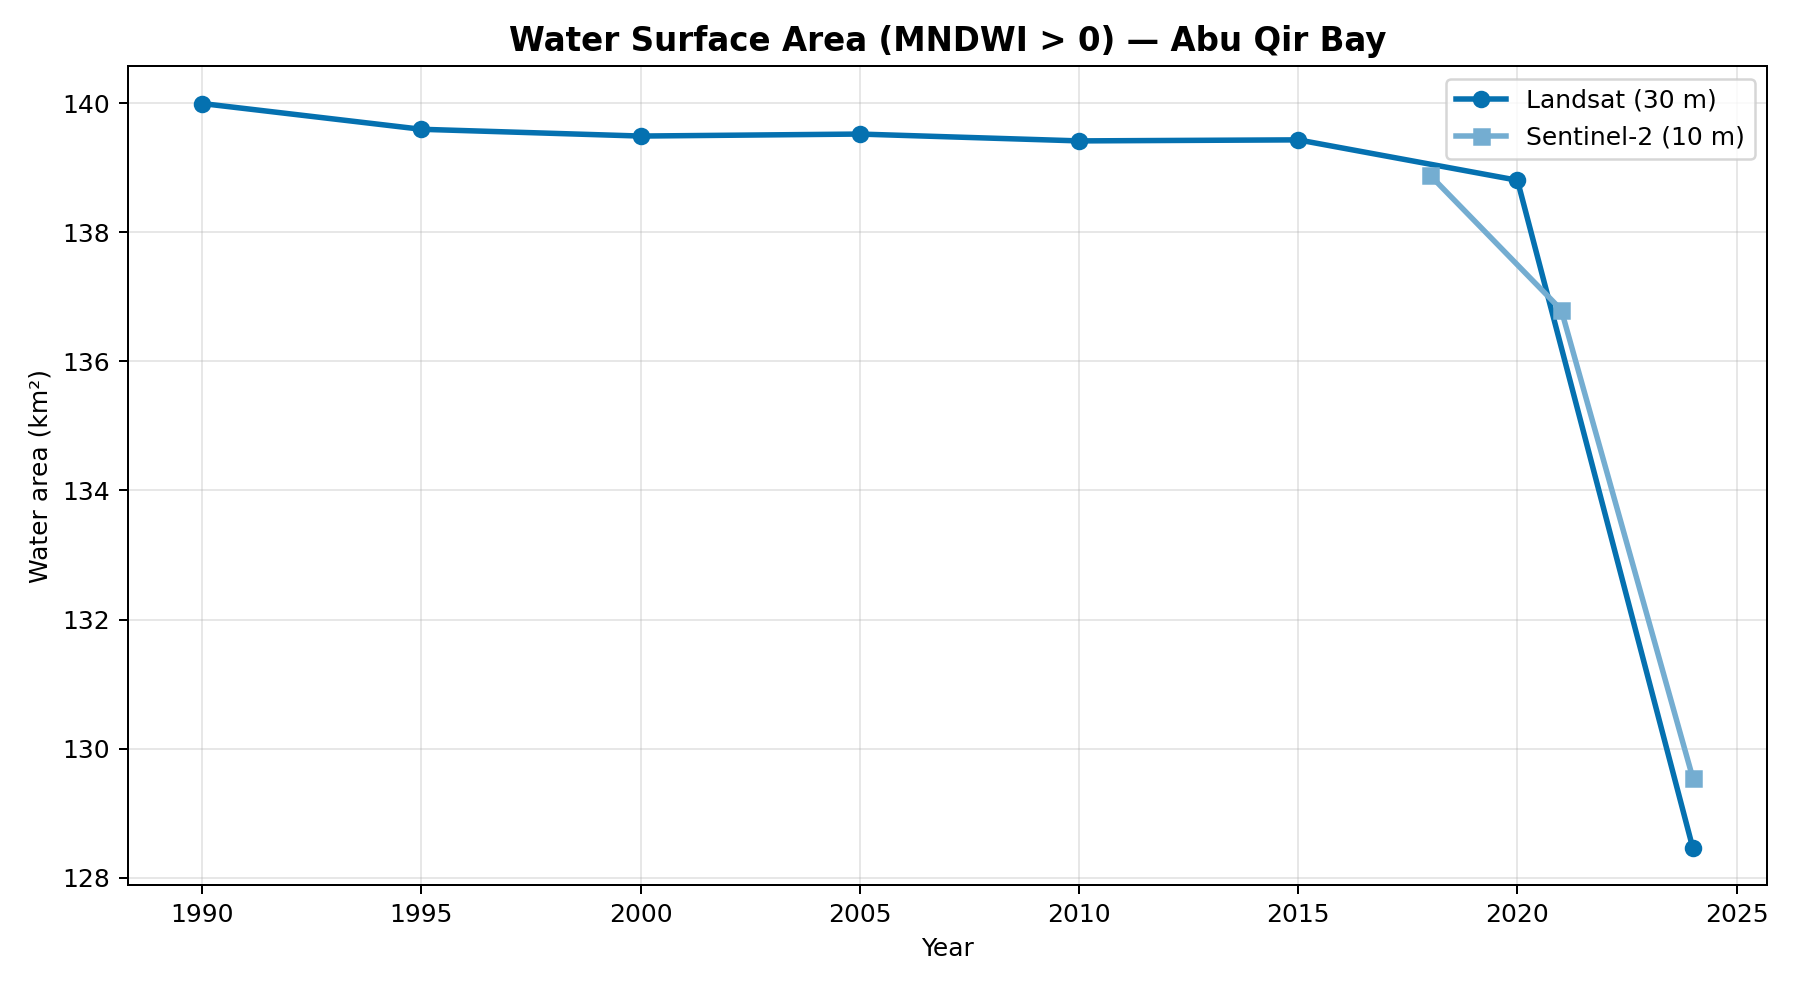
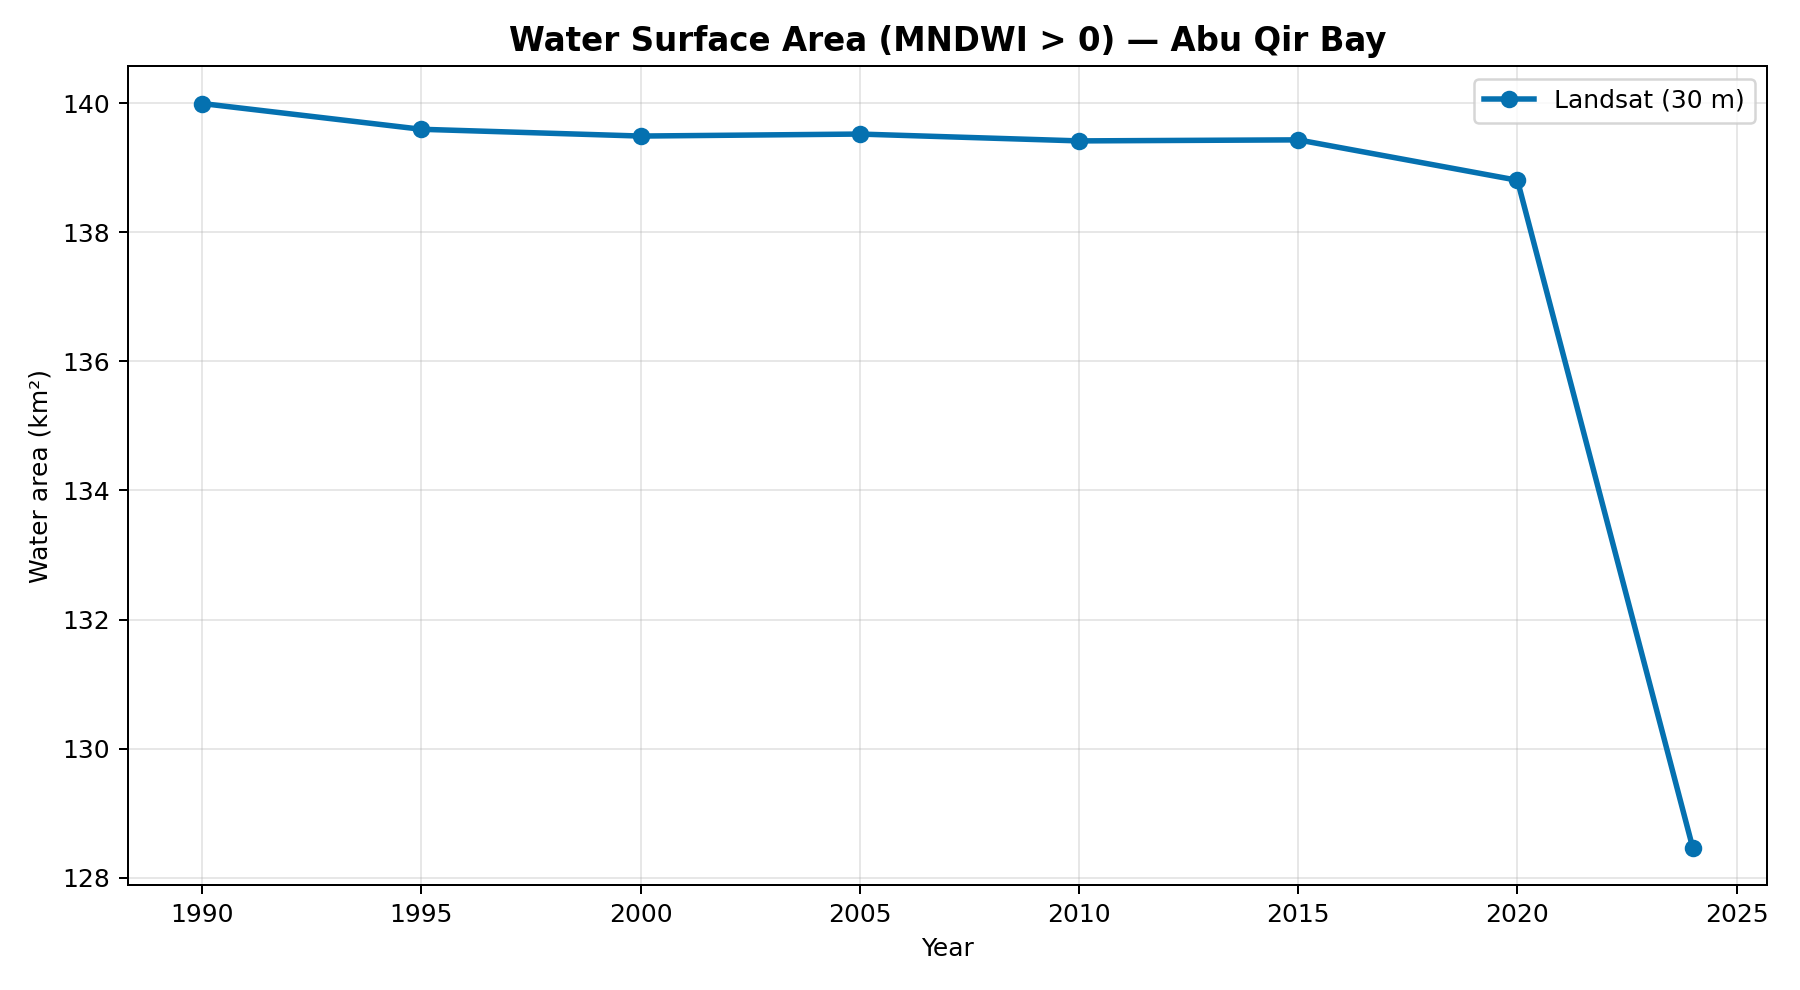
Drop Sentinel-2 — keep Landsat-only pipeline for clean reporting

diff --git a/visualize_and_report.py b/visualize_and_report.py
@@ -294,16 +294,7 @@ Red = NDBI increase (urbanisation); green = NDBI decrease.
 
 ---
 
-## 4. Sentinel-2 High-Resolution View
-
-{s2_table}
-
-![S2 2024 RGB](../maps/s2_rgb_2024.png)
-![S2 2024 built-up (Dynamic World)](../maps/s2_builtup_2024.png)
-
----
-
-## 5. Interpretation
+## 4. Interpretation
 
 The data tells a consistent story of intensive coastal urbanisation
 on the western edge of Abu Qir Bay. The bulk of the new built-up area
@@ -318,7 +309,7 @@ mechanical, not climatic.
 
 ---
 
-## 6. Reproducibility
+## 5. Reproducibility
 
 All inputs are open public archives; all code is in this repository.
 GeoTIFF outputs (per period, per index, plus the change-class raster)
@@ -331,7 +322,7 @@ were exported to Google Drive folder `{drive_folder}`.
 
 ---
 
-## 7. Limitations
+## 6. Limitations
 
 1. Pre-2015 built-up classification uses an unsupervised threshold
    rule rather than a trained classifier. Class boundaries are
@@ -373,14 +364,6 @@ def build_report(stats: dict) -> Path:
             f"{row['water_km2']:.2f} | "
             f"{row['ndvi_mean']:.3f} | {row['ndbi_mean']:.3f} |\n")
 
-    s2_table = "| Period | Built-up (km²) | Water (km²) | NDVI |\n"
-    s2_table += "|---|---|---|---|\n"
-    for row in s:
-        s2_table += (
-            f"| {row['period']} | {row['builtup_km2']:.2f} | "
-            f"{row['water_km2']:.2f} | "
-            f"{row['ndvi_mean']:.3f} |\n")
-
     transition_year = (
         int(first["period"]) + (int(last["period"]) - int(first["period"])) // 2)
 
@@ -398,7 +381,6 @@ def build_report(stats: dict) -> Path:
         first_ndbi=first["ndbi_mean"], last_ndbi=last["ndbi_mean"],
         mndwi_threshold=config.MNDWI_WATER_THRESHOLD,
         landsat_table=landsat_table,
-        s2_table=s2_table,
         transition_year=transition_year,
         drive_folder=config.DRIVE_FOLDER,
     )

diff --git a/config.py b/config.py
@@ -48,11 +48,11 @@ LANDSAT_PERIODS = [
     ("2024", "2024-01-01", "2025-12-31"),
 ]
 
-SENTINEL2_PERIODS = [
-    ("2018", "2018-01-01", "2018-12-31"),
-    ("2021", "2021-01-01", "2021-12-31"),
-    ("2024", "2024-01-01", "2024-12-31"),
-]
+# Sentinel-2 disabled — Landsat alone provides the headline result and the
+# S2 visualization params required separate tuning that wasn't worth the
+# marginal value-add. Re-enable here if you want a higher-resolution
+# snapshot for recent years.
+SENTINEL2_PERIODS = []
 
 # -------------------------------------------------------------------
 # CLOUD MASKING
@@ -97,8 +97,8 @@ MAX_PIXELS = 1e10
 # -------------------------------------------------------------------
 RGB_VIS_LANDSAT = {
     "bands": ["SR_B4", "SR_B3", "SR_B2"],
-    "min": 7000,
-    "max": 18000,
+    "min": 0.02,
+    "max": 0.30,
     "gamma": 1.2,
 }
 RGB_VIS_S2 = {

diff --git a/README.md b/README.md
@@ -1,9 +1,9 @@
 # Multi-Decadal Change Detection — New Abu Qir, Alexandria
 
-Multi-sensor, multi-decadal satellite change detection of the New Abu Qir
-coastline on the Mediterranean shore of Alexandria, Egypt. Built entirely on
-Google Earth Engine using Landsat 5/7/8/9, Sentinel-2, and Google's Dynamic
-World land-cover product. End-to-end reproducible in Python.
+Multi-decadal satellite change detection of the New Abu Qir coastline on the
+Mediterranean shore of Alexandria, Egypt. Built entirely on Google Earth
+Engine using harmonised Landsat 5/7/8/9 surface reflectance plus Google's
+Dynamic World land-cover product. End-to-end reproducible in Python.
 
 ![Built-up area time-series](outputs/charts/builtup_timeseries.png)
 
@@ -31,7 +31,7 @@ in open water from reclamation.
 ## What the Repository Contains
 
 - **End-to-end Python pipeline** for Google Earth Engine
-- **Multi-sensor harmonization** across Landsat 5/7/8/9 + Sentinel-2
+- **Multi-sensor harmonization** across Landsat 5 / 7 / 8 / 9
 - **Five spectral indices**: NDVI, NDBI, MNDWI, NDWI, BSI
 - **Built-up classification** using Dynamic World (post-2015) and a
   transparent NDBI/NDVI/MNDWI threshold rule for the pre-Dynamic-World era

diff --git a/outputs/report/Abu_Qir_Change_Detection_Report.md b/outputs/report/Abu_Qir_Change_Detection_Report.md
@@ -120,21 +120,7 @@ Red = NDBI increase (urbanisation); green = NDBI decrease.
 
 ---
 
-## 4. Sentinel-2 High-Resolution View
-
-| Period | Built-up (km²) | Water (km²) | NDVI |
-|---|---|---|---|
-| 2018 | 15.67 | 138.89 | -0.033 |
-| 2021 | 17.21 | 136.80 | -0.072 |
-| 2024 | 16.22 | 129.55 | -0.067 |
-
-
-![S2 2024 RGB](../maps/s2_rgb_2024.png)
-![S2 2024 built-up (Dynamic World)](../maps/s2_builtup_2024.png)
-
----
-
-## 5. Interpretation
+## 4. Interpretation
 
 The data tells a consistent story of intensive coastal urbanisation
 on the western edge of Abu Qir Bay. The bulk of the new built-up area
@@ -149,7 +135,7 @@ mechanical, not climatic.
 
 ---
 
-## 6. Reproducibility
+## 5. Reproducibility
 
 All inputs are open public archives; all code is in this repository.
 GeoTIFF outputs (per period, per index, plus the change-class raster)
@@ -162,7 +148,7 @@ were exported to Google Drive folder `AbuQir_ChangeDetection_Exports`.
 
 ---
 
-## 7. Limitations
+## 6. Limitations
 
 1. Pre-2015 built-up classification uses an unsupervised threshold
    rule rather than a trained classifier. Class boundaries are
